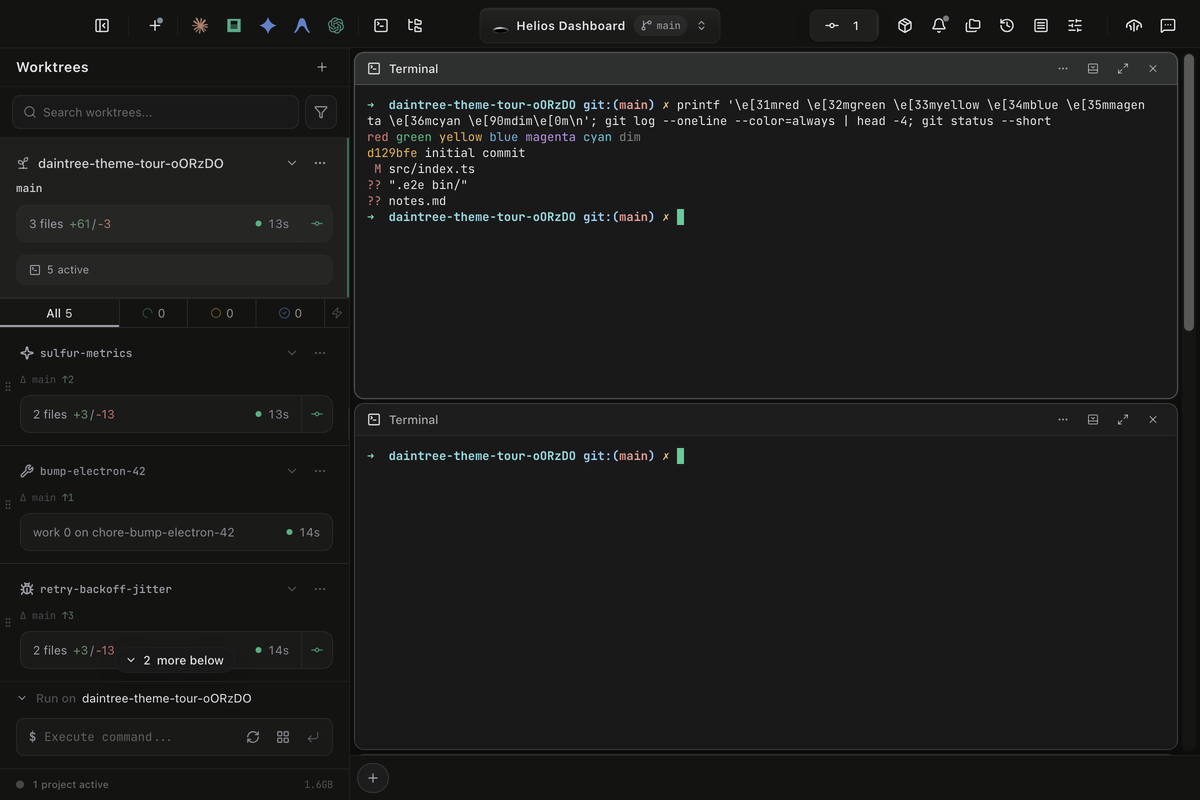
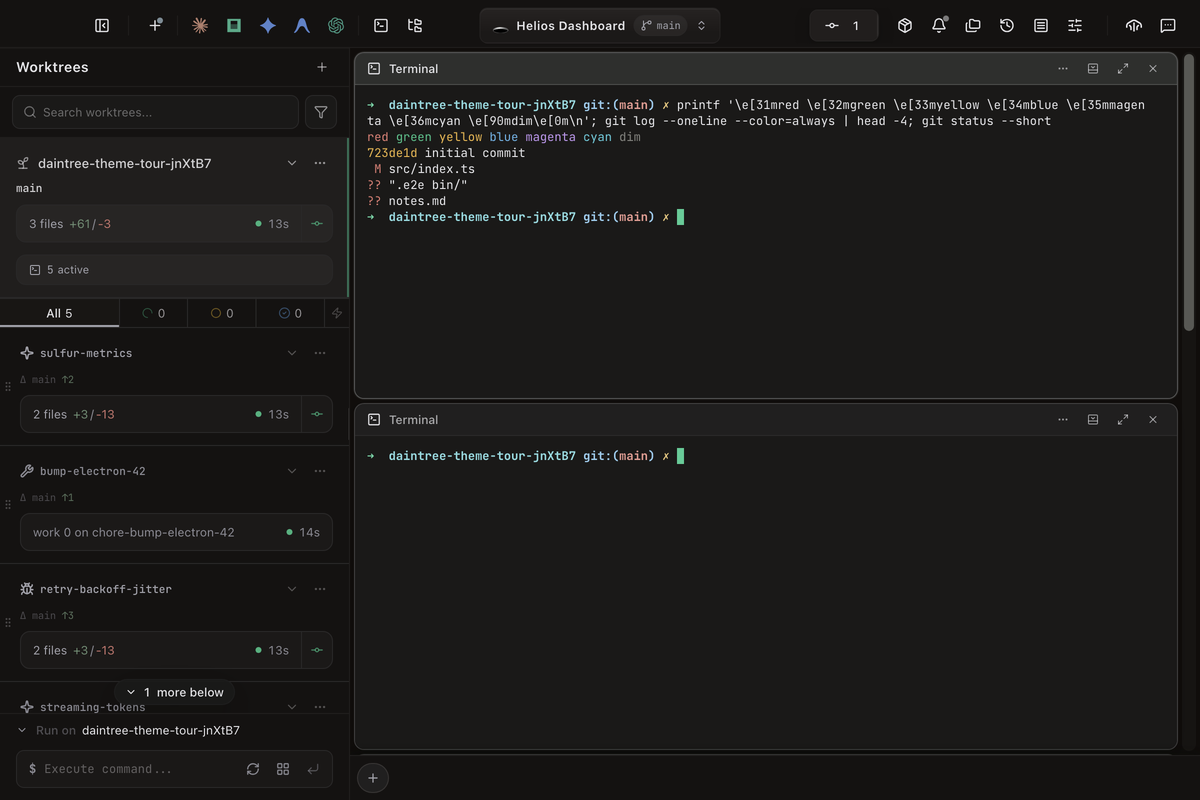
refine(theme): unify the surface ladder and open the canvas step
The ladder changed hue family halfway up: grid and sidebar at OKLCH
H 107, then canvas, panel and elevated at H 286 — three stock Tailwind
zincs. Five planes made of two different neutrals.

- one warm hue family across all five rungs
- a smoked umber cast (H ~48) confined to the structural planes:
  C 0.008 in the grid, 0.005 in the sidebar, tapering to ~0.002 by
  canvas, so the surfaces you read on stay neutral. H 48 sits ~115deg
  from the accent's H 162.5, which buys `#36CE94` 1.8-3.1% more
  chroma-plane separation instead of spending it
- canvas->panel 0.017 -> 0.026 OKLab L, above the engine's own 0.02
  JND, so panel cards lift off the canvas. Ramp ratio 3.37 -> 2.19
  against a limit of 3

Both audits are warn-only on dark, so the flat step and the split
family had shipped green for a long time.

An olive field (H ~105, C 0.0125) was built and rejected first: it cost
the accent 2.9-3.7% and turned the whole app olive, because the cast
was not confined to the shell.

Zero contrast warnings.

diff --git a/shared/theme/builtInThemes/daintree.ts b/shared/theme/builtInThemes/daintree.ts
@@ -12,19 +12,42 @@ export const theme: BuiltInThemeSource = {
     surfaces: {
       // Neutral-earthy charcoal by design: biome green lives in accent, focus
       // light, and data lanes only — never the field.
-      grid: "#0e0e0d",
-      sidebar: "#131312",
-      canvas: "#19191a",
-      panel: "#1d1d1e",
-      elevated: "#2b2b2c",
+      //
+      // Two properties are load-bearing and easy to undo by accident.
+      //
+      // ONE HUE FAMILY. Every rung sits on the same warm axis. The ladder used
+      // to change family halfway up — grid and sidebar at OKLCH H 107, then
+      // canvas, panel and elevated at H 286, three stock Tailwind zincs — so
+      // the five planes were two different neutrals glued together.
+      //
+      // CAST ON THE SHELL, NOT ON THE WORK. A smoked umber (H ~48) at C 0.008
+      // in the grid, 0.005 in the sidebar, tapering to ~0.002 by canvas: the
+      // structural planes carry the character, the surfaces you actually read
+      // on stay neutral. Hue matters as much as amount. H 48 is ~115° from the
+      // accent's H 162.5, so the field moves AWAY from `#36CE94` and buys it
+      // 1.8-3.1% more chroma-plane separation. An olive field (H ~105) was
+      // tried first: it cost the accent 2.9-3.7% and turned the whole app
+      // olive, because the cast was not confined to the shell.
+      //
+      // The lightness ladder is 0.163 / 0.185 / 0.214 / 0.240 / 0.289 in OKLab
+      // L — steps .022 .029 .026 .048, ratio 2.19. canvas→panel used to be
+      // .017, under the engine's own .02 JND, so panel cards did not lift off
+      // the canvas at all and the ramp ratio ran to 3.37 against a limit of 3.
+      // Both audits are warn-only on dark, so that shipped green for a long
+      // time. Keep every adjacent step above .02.
+      grid: "#110d0b",
+      sidebar: "#151211",
+      canvas: "#1a1918",
+      panel: "#201f1f",
+      elevated: "#2b2b2a",
     },
     text: {
       primary: "#e4e4e7",
       secondary: "#a1a1aa",
       muted: "#8a8a93",
-      inverse: "#19191a",
+      inverse: "#1a1918",
     },
-    border: "#282828",
+    border: "#292828",
     accent: "#36CE94",
     accentSecondary: "#6B8D72",
     status: {
@@ -45,7 +68,7 @@ export const theme: BuiltInThemeSource = {
     },
     overlayTint: "#D4E8DD",
     // Terminal background intentionally unset — inherits the canvas. Every
-    // legibility-bearing ANSI slot holds dL ≥ 0.18 on #19191a and base-vs-bright
+    // legibility-bearing ANSI slot holds dL ≥ 0.18 on #1a1918 and base-vs-bright
     // ΔE ≥ 0.03; `black` is exempt by design (it derives to the background and
     // doubles as hidden text, so the validator skips it).
     terminal: {
@@ -100,7 +123,7 @@ export const theme: BuiltInThemeSource = {
     "search-match-badge-text": "#36CE94",
     "search-selected-result-border": "rgba(54,206,148,0.30)",
     "search-selected-result-icon": "#36CE94",
-    "surface-toolbar": "#131312",
+    "surface-toolbar": "#151211",
     // ANSI 90 is the conventional dim slot for hints, timestamps and secondary
     // output — it is read as body text, so it owes AA. 4.55:1 on the terminal
     // background, and still 3.0x quieter than the foreground's 13.85:1, so it
@@ -138,11 +161,11 @@ export const theme: BuiltInThemeSource = {
     // control, and on a selected option row — which is where identity actually
     // matters, and keeps the damping off the keyboard path.
     "brand-mark-saturation": "0.65",
-    "pulse-before-bg": "#1A1B1A",
-    "pulse-card-bg": "#1d1d1e",
+    "pulse-before-bg": "#181616",
+    "pulse-card-bg": "#201f1f",
     "pulse-card-shadow": "0 1px 3px rgba(5,10,7,0.40)",
     "pulse-control-hover-bg": "rgba(255,255,255,0.05)",
-    "pulse-empty-bg": "#232324",
+    "pulse-empty-bg": "#252424",
     // Glow-worm heat ramp: opaque stops, level 4 = accent (a data lane, outside
     // the accent budget); level 1 must stay ≥ JND above the empty cell.
     "pulse-heat-color": "#36CE94",
@@ -150,24 +173,24 @@ export const theme: BuiltInThemeSource = {
     "pulse-heat-2": "#2b6243",
     "pulse-heat-3": "#319966",
     "pulse-heat-4": "#36CE94",
-    "pulse-range-bg": "#19191a",
-    "pulse-ring-offset": "#1d1d1e",
-    "pulse-skeleton-gradient": "linear-gradient(90deg, #2b2b2c 25%, #333335 50%, #2b2b2c 75%)",
-    "dock-bg": "#131312",
-    "settings-dialog-bg": "#1d1d1e",
-    "settings-card-bg": "#232324",
-    "settings-list-item-bg": "#232324",
+    "pulse-range-bg": "#1a1918",
+    "pulse-ring-offset": "#201f1f",
+    "pulse-skeleton-gradient": "linear-gradient(90deg, #2b2b2a 25%, #313130 50%, #2b2b2a 75%)",
+    "dock-bg": "#151211",
+    "settings-dialog-bg": "#201f1f",
+    "settings-card-bg": "#252424",
+    "settings-list-item-bg": "#252424",
     // rgb(19,19,18) = the sidebar surface; keep in lockstep with surfaces.sidebar.
-    "dialog-header-bg": "rgba(19,19,18,0.60)",
-    "settings-kbd-bg": "#19191A",
+    "dialog-header-bg": "rgba(21,18,17,0.60)",
+    "settings-kbd-bg": "#1A1918",
     "settings-nav-active-bg": "rgba(54,206,148,0.10)",
     "settings-nav-active-shadow": "none",
     "settings-nav-hover-bg": "rgba(255,255,255,0.03)",
-    "settings-search-bg": "#19191A",
+    "settings-search-bg": "#1A1918",
     "settings-search-muted": "#a1a1aa",
-    "settings-sidebar-bg": "rgba(19,19,18,0.50)",
+    "settings-sidebar-bg": "rgba(21,18,17,0.50)",
     // Composited settings-sidebar-bg over the shell.
-    "settings-sidebar-scroll-fade": "#181818",
+    "settings-sidebar-scroll-fade": "#1b1918",
     "sidebar-action-hover-bg": "rgba(255,255,255,0.05)",
     "sidebar-active-bg": "rgba(255,255,255,0.05)",
     "sidebar-hover-bg": "rgba(255,255,255,0.03)",
@@ -178,18 +201,18 @@ export const theme: BuiltInThemeSource = {
     "toolbar-control-armed-bg": "rgba(255,255,255,0.14)",
     "toolbar-control-armed-shadow": "inset 0 0 0 1px rgba(255,255,255,0.12)",
     "toolbar-control-hover-bg": "rgba(255,255,255,0.10)",
-    "toolbar-divider": "rgba(40,40,40,0.5)",
+    "toolbar-divider": "rgba(41,40,40,0.5)",
     // Neutral white top-light, deliberately very subtle — don't re-tint it green.
     "toolbar-project-bg":
       "linear-gradient(180deg, rgba(255,255,255,0.04), rgba(255,255,255,0) 70%), rgba(255,255,255,0.03)",
-    "toolbar-project-border": "rgba(40,40,40,0.5)",
+    "toolbar-project-border": "rgba(41,40,40,0.5)",
     "toolbar-project-chip-bg": "rgba(255,255,255,0.05)",
-    "toolbar-project-chip-border": "rgba(40,40,40,0.6)",
+    "toolbar-project-chip-border": "rgba(41,40,40,0.6)",
     "toolbar-project-meta-fg": "#a1a1aa",
     "toolbar-project-shadow": "inset 0 1px 0 rgba(255,255,255,0.06)",
     "toolbar-stats-bg": "rgba(255,255,255,0.05)",
-    "toolbar-stats-border": "rgba(40,40,40,0.5)",
-    "toolbar-stats-divider": "rgba(40,40,40,0.5)",
+    "toolbar-stats-border": "rgba(41,40,40,0.5)",
+    "toolbar-stats-divider": "rgba(41,40,40,0.5)",
     "toolbar-stats-hover-bg": "rgba(255,255,255,0.10)",
   },
 };
